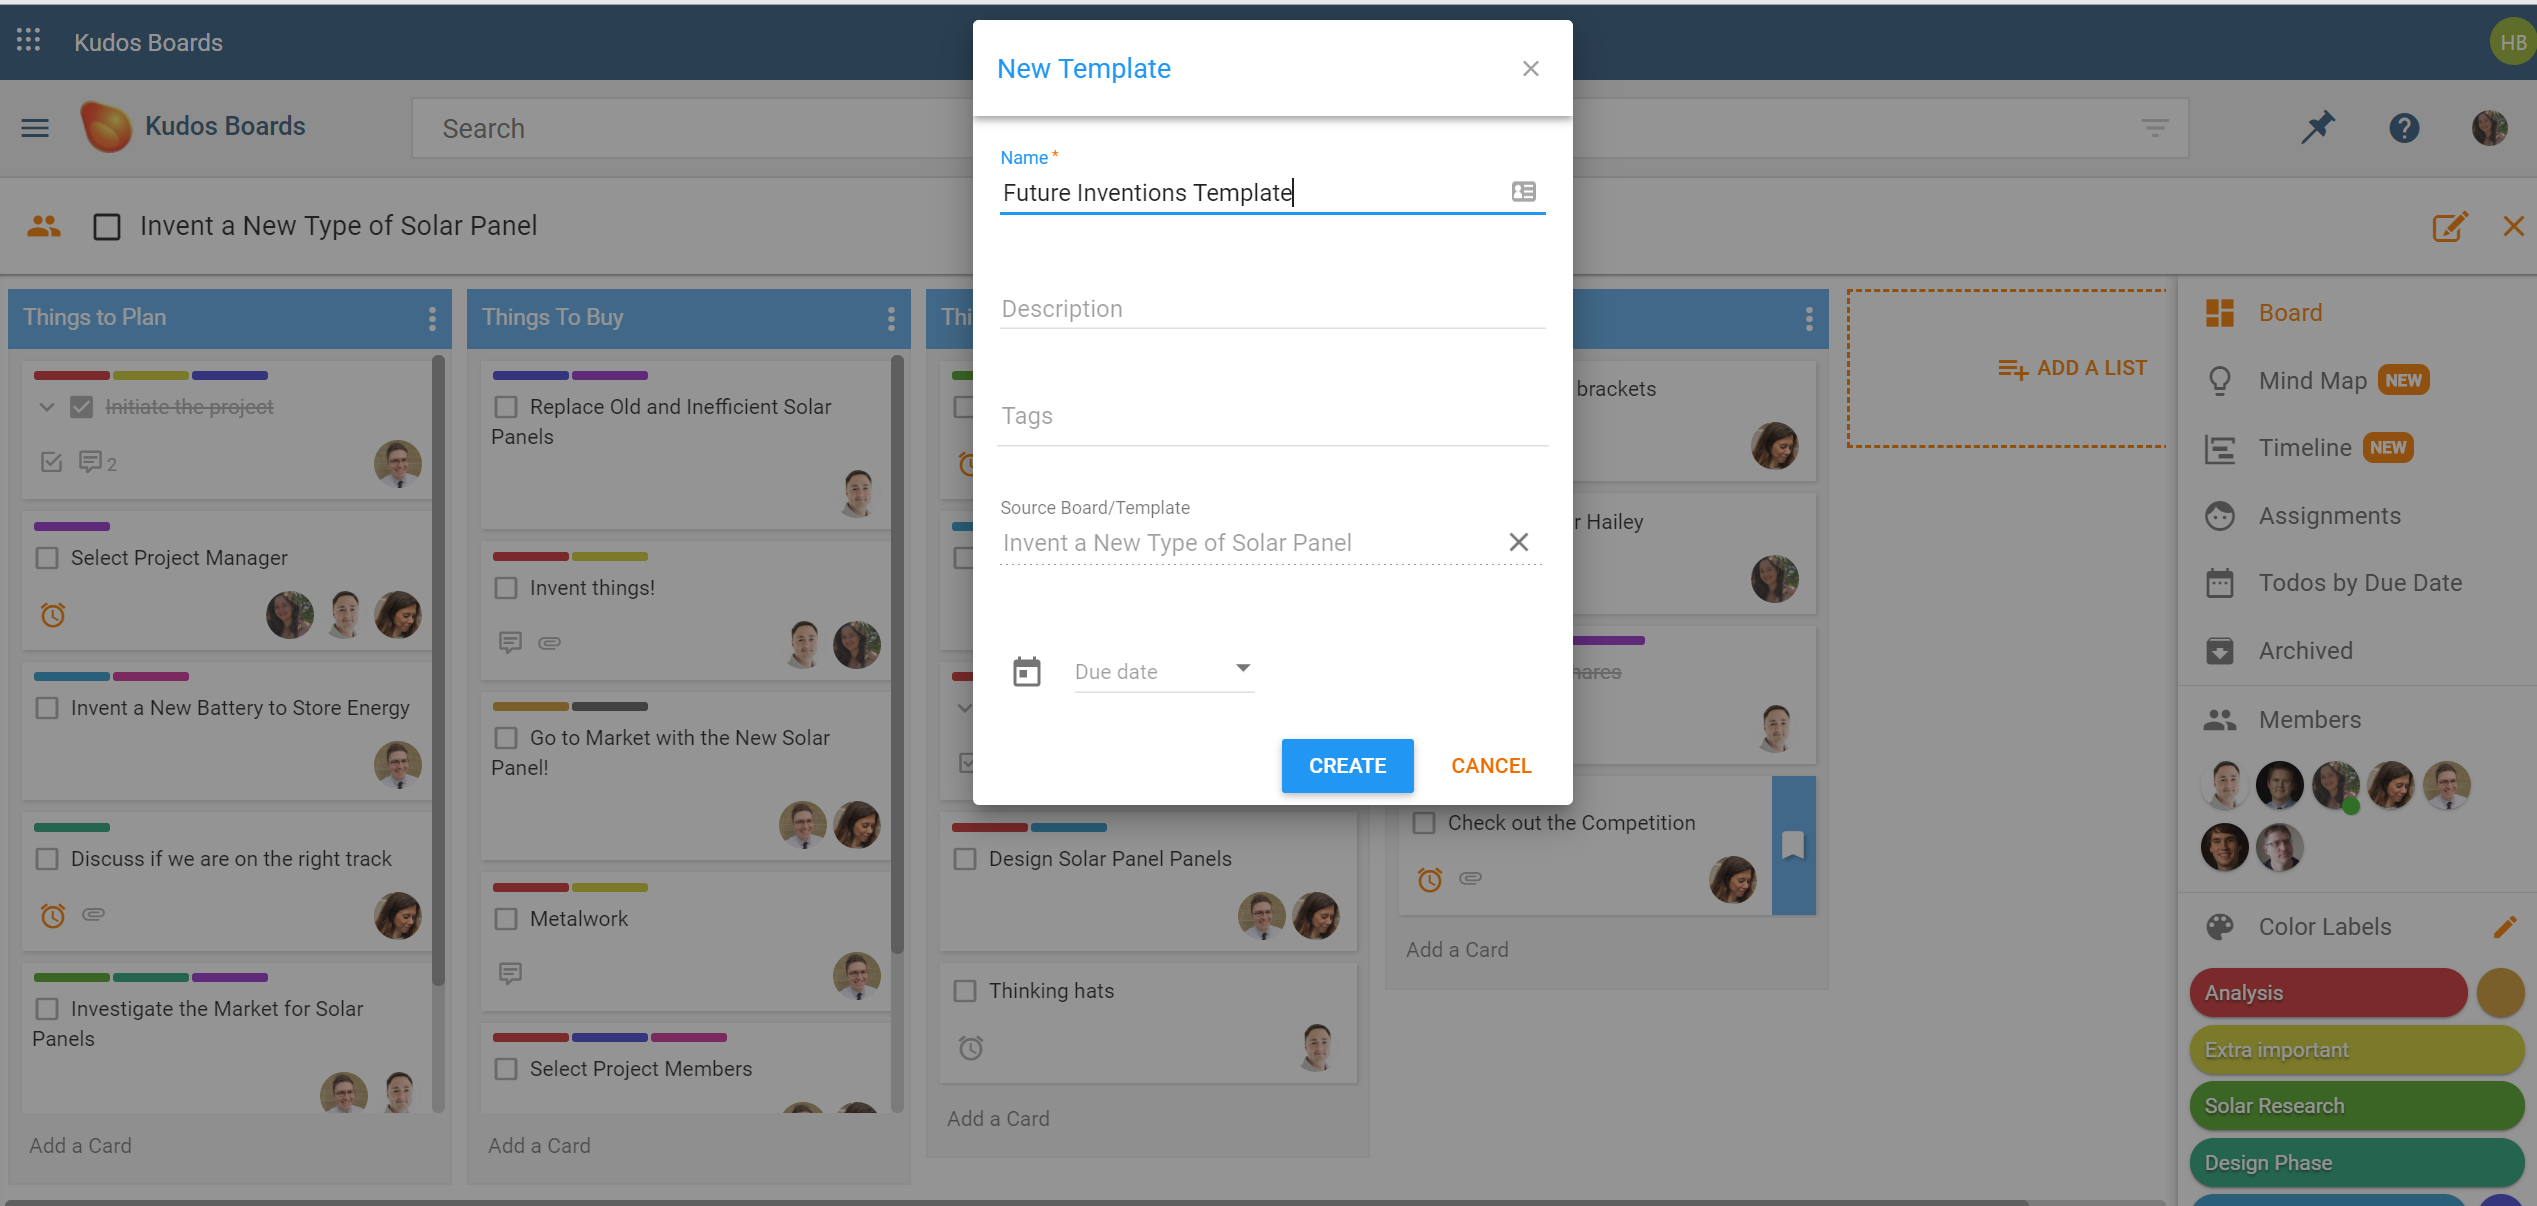
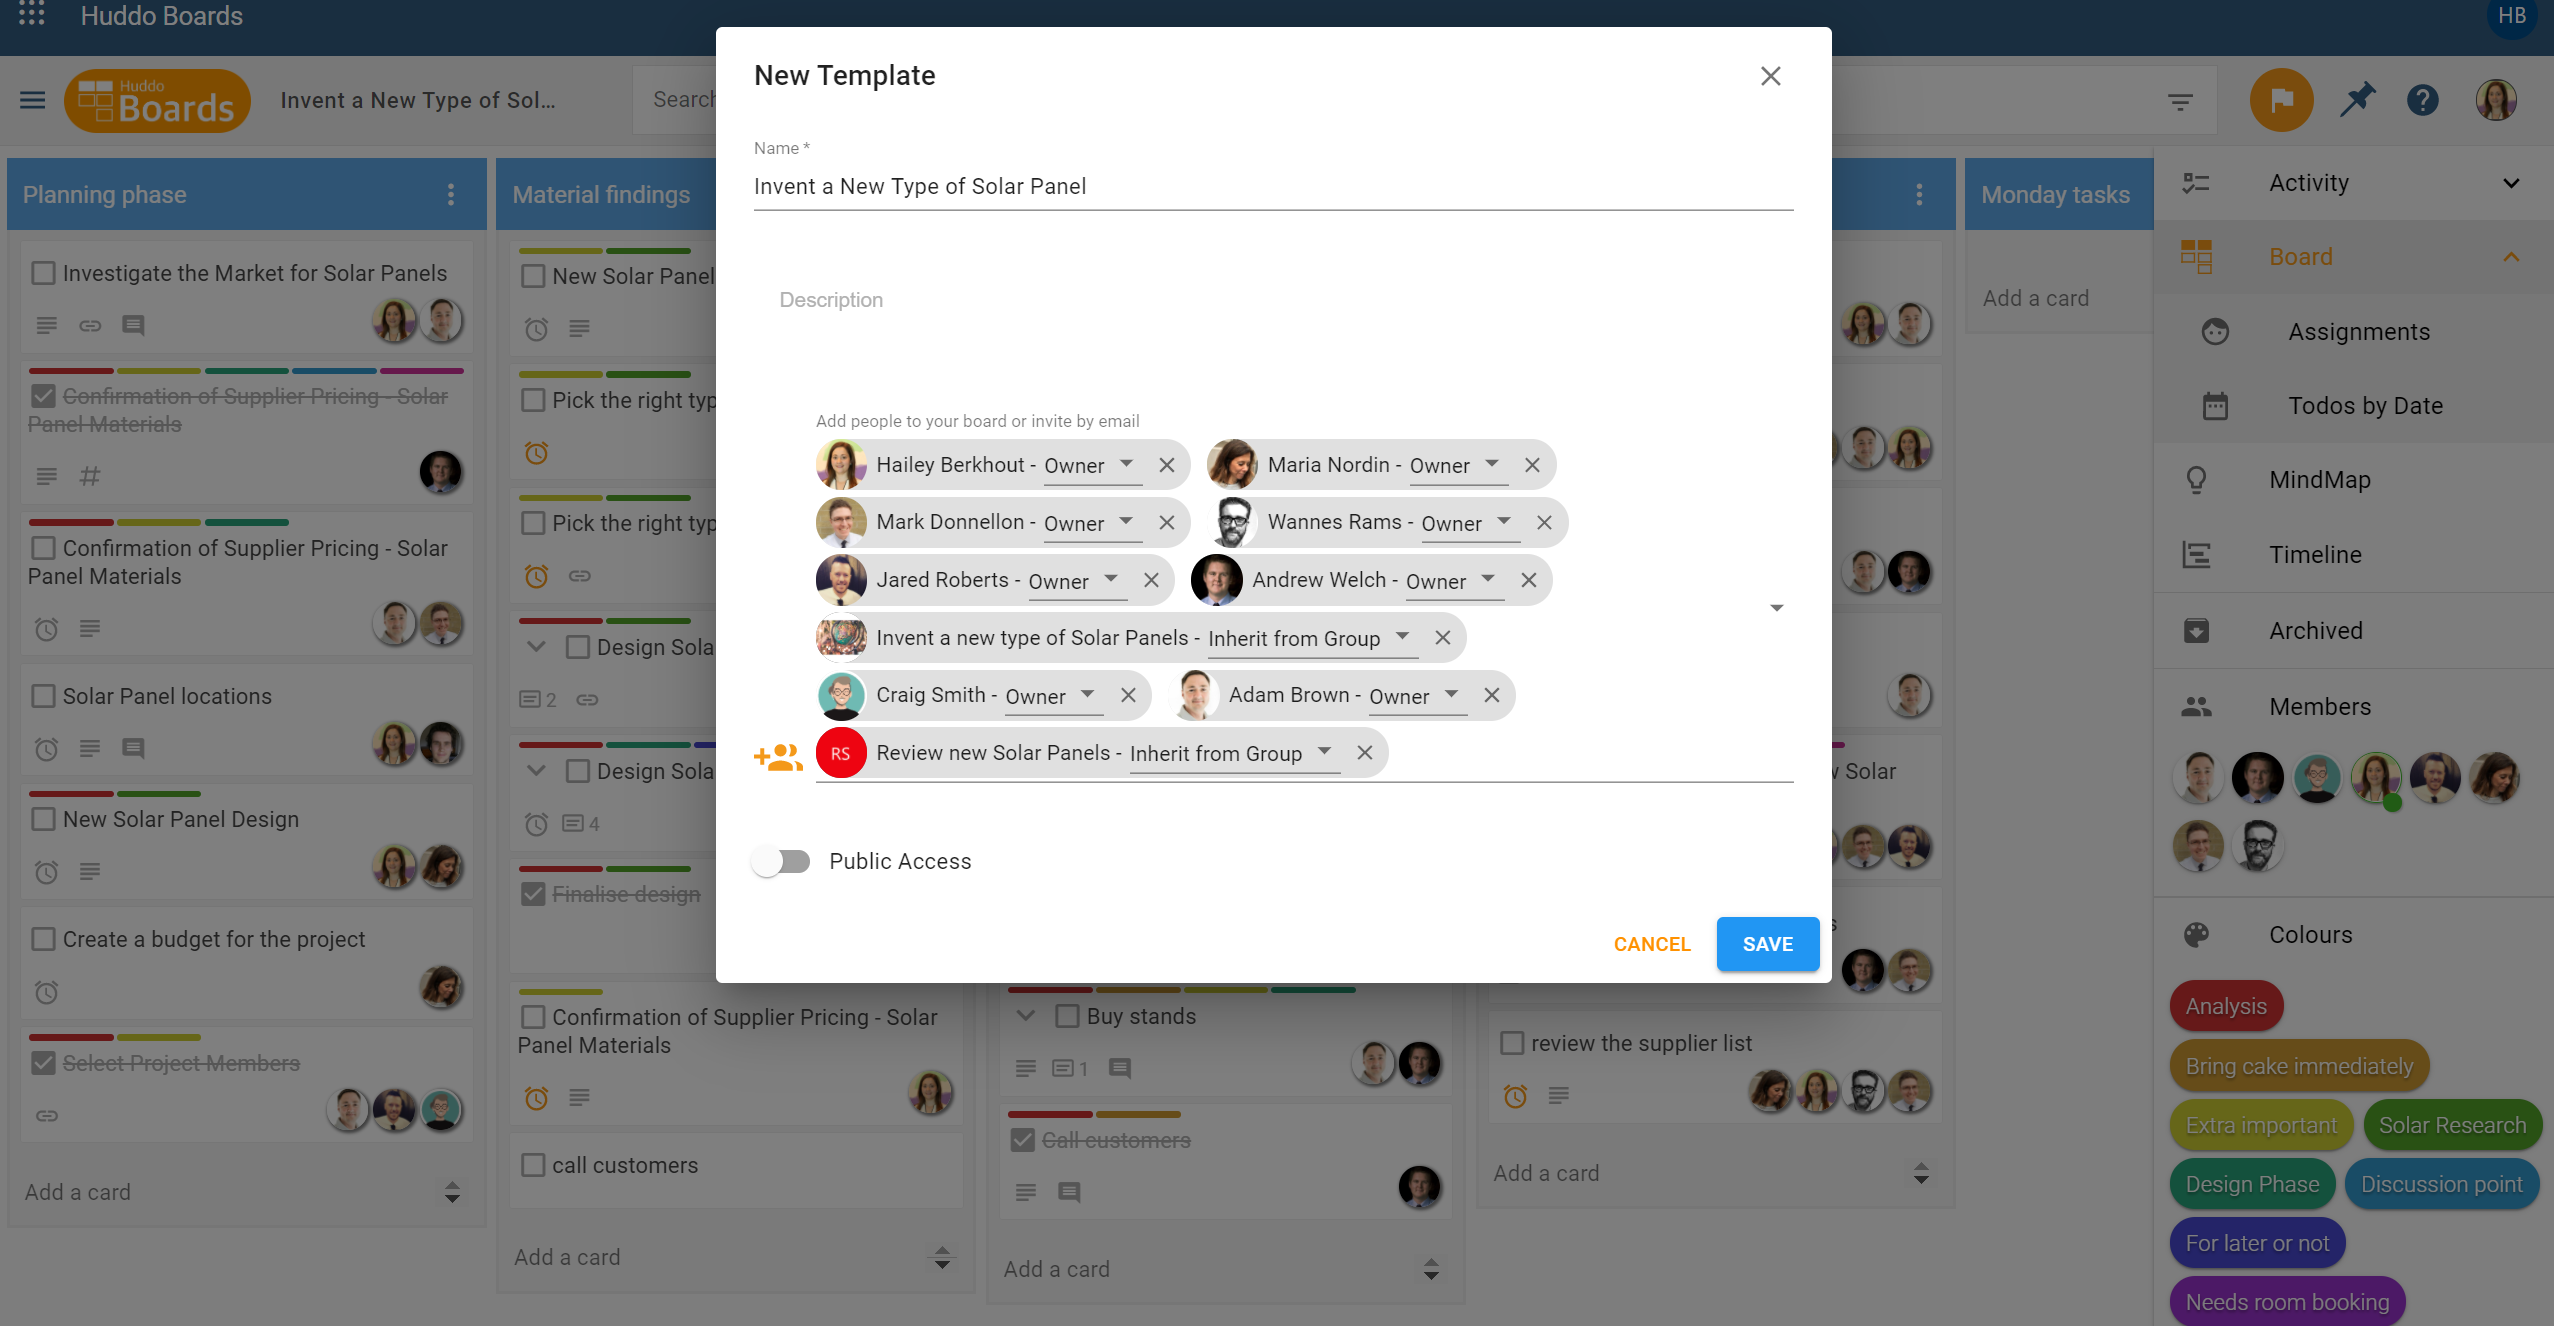
update to images and description in templates

diff --git a/docs/boards/howto/creating-templates.md b/docs/boards/howto/creating-templates.md
@@ -5,34 +5,34 @@
 Made a fantastic board and want to keep a copy for future use? Save time and brain power by creating a template of your board.
 
 ### Create a Template From an Existing Board
-Within your board, click the pencil icon on the right-hand side under the question mark, to `Open Board Options.` Next, click the fourth option in the right-hand side menu, `Create Board from Template.`
+Within your board, click the title of your board to `Open Board Options.` Find this located between the Huddo Boards logo and the search bar. Next, click, `Create Template from Board.`
 
 ![](/assets/boards/createtemplate1.png)
 
-In the next window, you can update the name, description, tags, decide if you want to reference the source template (ie the board you’re making it from), and add a due date if you wish. Click `Create.` The template will open in a new screen.
+In the next window, you can update the name, description, and choose to keep Board Members as is, remove or add Board Members. Click `Save.` The template will open in a new screen.
 
 ![](/assets/boards/createtemplate2.png)
 
-You’ll be able to locate it in your template library via the main dashboard or when you create a new board and search the name.
+You’ll be able to locate your template in your template library via the MyBoards Dashboard or when you create a new board and search the name.
 
-**Important**: When the template opens in a new screen, any editing will you do will apply to the template. Click in to the `Open Board Options` icon as you did above and select, `Create Board from Template.` When the new window opens, you’ll start a new board instead of editing the template you’ve just created.
+**Important**: When the template opens in a new screen, any editing you do will apply to the template. Click in to the `Open Board Options` icon as you did above and select, `Create Board from Template.` When the new window opens, you’ll start a new board instead of editing the template you’ve just created.
 
 ### Create a New Template from Scratch
 
-From your main *My Boards* dashboard, navigate to `Templates` via the left-hand side menu.
-You’ll land on the Public Templates page and see global templates or templates from your organisation.
+From your main *MyBoards* dashboard, navigate to `Templates` via the left-hand side menu.
+You’ll land on the My Templates page and see templates you have created.
 
 ![](/assets/boards/createtemplate3.png)
 
-Click the `+ New Template` button to start your creation.
+Click the `+ New Template` button to start your creation. You have the option to select `Source Board / Template` in the creation process, meaning you can make a template from another template that already exists. Leave this blank if you prefer to build your template from scratch in the board. 
 
-**Public Template Access:** Making a template in the public area, will not automatically make it public. Within the template you create, you’ll be able to select if you wish for it to be public. This option is found in the `Members` section on the right-hand side menu.
+**Public Template Access:** Making a template in the public area, will not automatically make it public. Within the template you create, you’ll be able to select if you wish for it to be public. You can do this in the template creation window or later when it is created by finding `Public` in the `Members` section on the right-hand side menu.
 
 Complete the required information for your template, then click `Create`.  
 
 ![](/assets/boards/createtemplate4.png)
 
-Your new template will open as a blank board template. From here, you can add your required lists, cards, colour labels, tags and more.
+Your new template will open as a blank board template or with lists and cards if you selected from a Source Board/Template. From here, customise your template by editing or adding required lists, cards, colour labels, tags and more.
 
 In future, when creating a new board, type in the template name in the `Search All Templates` field, during the New Board creation phase.
 
